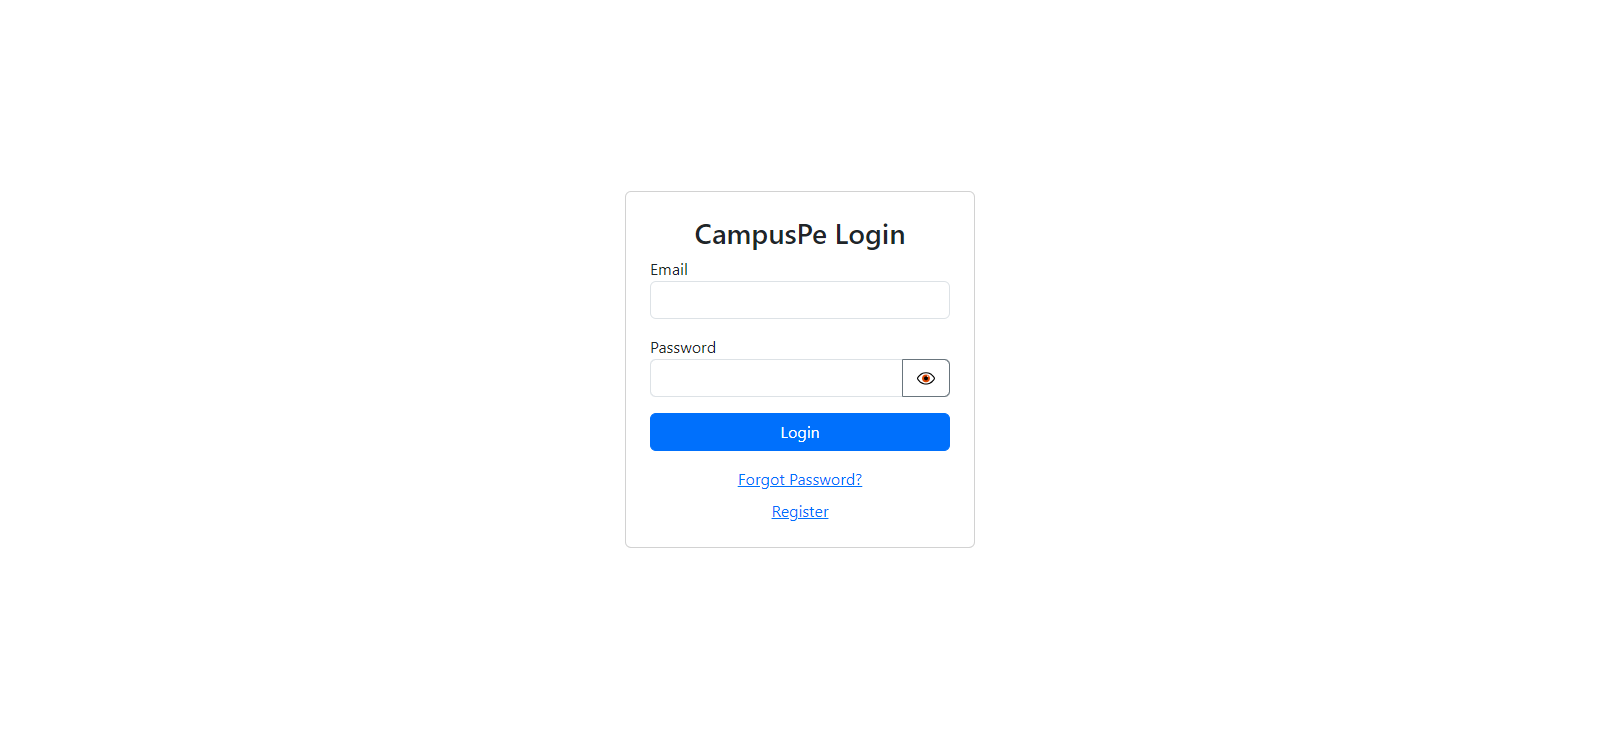
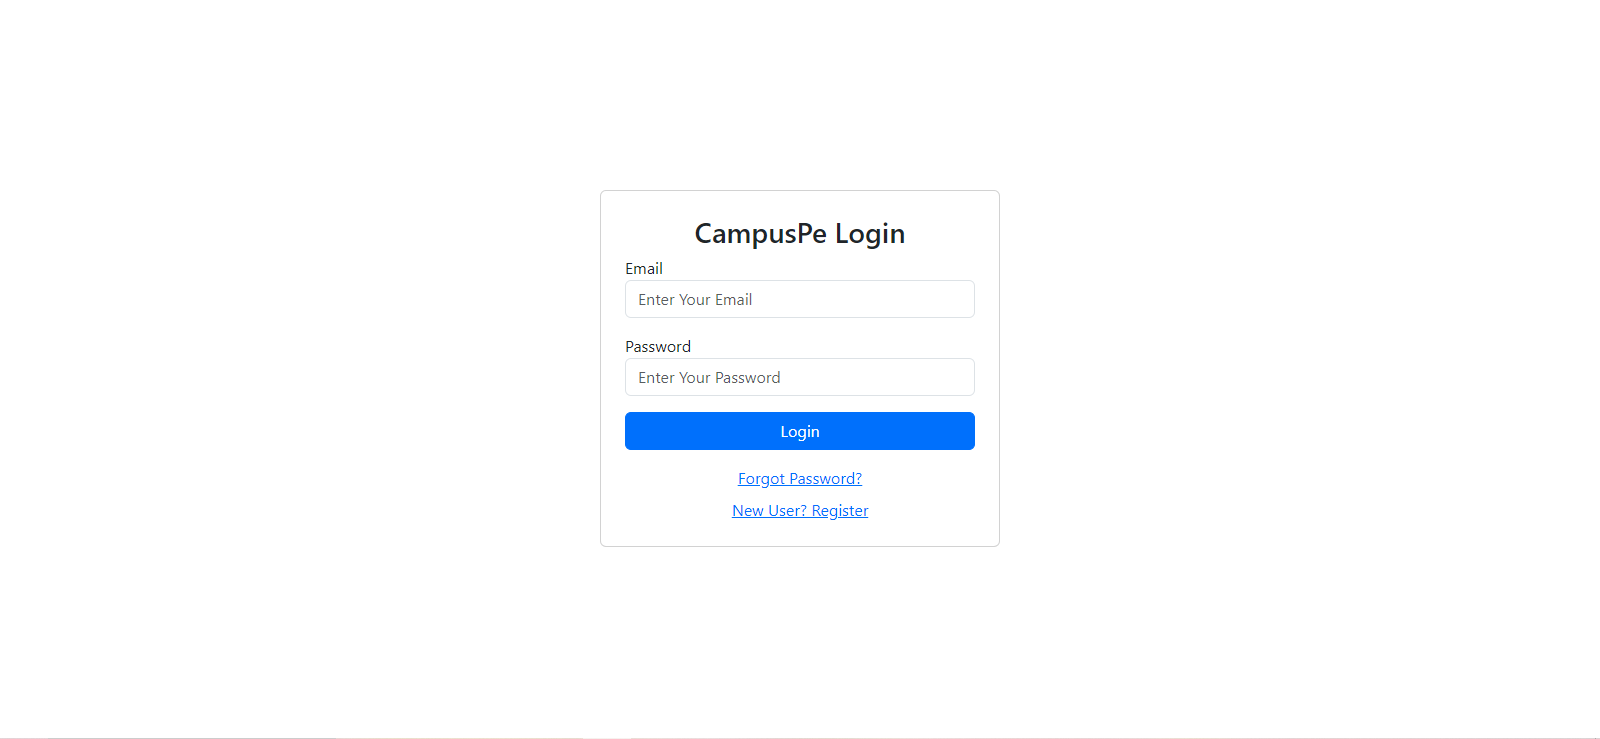
updated login page

diff --git a/login.html b/login.html
@@ -1,10 +1,13 @@
 <!DOCTYPE html>
-<html>
+<html lang="en">
 <head>
+<meta charset="UTF-8">
+<meta name="viewport" content="width=device-width, initial-scale=1.0">
+
 <title>Login Page</title>
 
 <link href="https://cdn.jsdelivr.net/npm/bootstrap@5.3.2/dist/css/bootstrap.min.css" rel="stylesheet">
-<link rel="stylesheet" href="styles.css">
+
 </head>
 
 <body>
@@ -19,20 +22,15 @@
 
 <div class="mb-3">
 <label>Email</label>
-<input type="email" class="form-control" required>
+<input type="email" class="form-control" placeholder="Enter Your Email" required>
 </div>
 
 <div class="mb-3">
 <label>Password</label>
-
-<div class="input-group">
-<input type="password" id="password" class="form-control" required>
-<button type="button" class="btn btn-outline-secondary" onclick="togglePassword()">👁</button>
+<input type="password" class="form-control" placeholder="Enter Your Password" required>
 </div>
 
-</div>
-
-<button class="btn btn-primary w-100">Login</button>
+<button type="submit" class="btn btn-primary w-100">Login</button>
 
 </form>
 
@@ -41,18 +39,11 @@
 </div>
 
 <div class="text-center mt-2">
-<a href="register.html">Register</a>
+<a href="register.html">New User? Register</a>
 </div>
 
 </div>
 </div>
-
-<script>
-function togglePassword(){
-var x=document.getElementById("password");
-x.type = (x.type==="password")?"text":"password";
-}
-</script>
 
 </body>
 </html>
